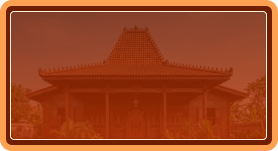
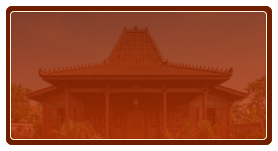
Polish map and bottom menu styling
Use white frames for region cards and a textured, rounded bottom navigation panel.

Changed region(s): [[0.0, 0.0, 1.0, 1.0]]

diff --git a/style.css b/style.css
@@ -5617,8 +5617,7 @@ body.page-home .region-dropdown {
   z-index: 2;
   margin-top: -3px;
   padding: 16px 14px 18px;
-  border: 4px solid #f6a04f;
-  border-top: 0;
+  border: 4px solid #fff;
   border-radius: 0 0 16px 16px;
   background: #fff;
   box-shadow: 0 8px 18px rgba(38, 15, 5, .35);
@@ -5732,10 +5731,18 @@ body.page-home .region-dropdown__cook {
 }
 
 body.page-home .bottom-menu {
-  bottom: max(10px, env(safe-area-inset-bottom));
+  bottom: 0;
   display: flex;
   justify-content: center;
-  padding: 0 10px;
+  padding: 10px 10px max(10px, env(safe-area-inset-bottom));
+  border: 4px solid #fff;
+  border-bottom: 0;
+  border-radius: 24px 24px 0 0;
+  background: #f3e5ab;
+  background-image: url('assets/texture/bottom-menu-food.png');
+  background-blend-mode: multiply;
+  background-size: cover;
+  background-position: center;
 }
 
 body.page-home .bottom-menu__container {
@@ -5746,9 +5753,8 @@ body.page-home .bottom-menu__container {
   justify-content: center;
   gap: clamp(3px, 1.7vw, 12px);
   padding: 7px 10px;
-  border: 1px solid rgba(255, 227, 186, .55);
   border-radius: 22px;
-  background: rgba(55, 31, 18, .68);
+  background: rgba(0, 0, 0, .5);
   box-shadow: 0 8px 24px rgba(34, 15, 5, .4);
   backdrop-filter: blur(8px);
   -webkit-backdrop-filter: blur(8px);
